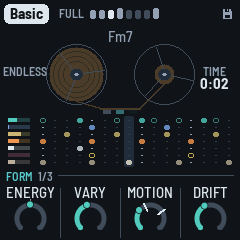
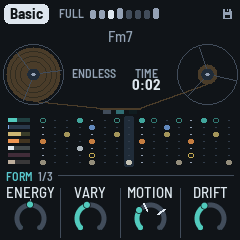
1.4.0: the hats' throw a tad more feedback (0.955 while held, the rest 0.93; the user's, zzr); the tape's reels at the screen's edges, its counter between them (the user's)

diff --git a/firmware/src/app/ui.c b/firmware/src/app/ui.c
@@ -4249,7 +4249,7 @@ static void draw_tape(uint32_t now)
 {
     static float al, ar;
     static uint32_t t_last;
-    const int32_t lx = 76, rx = 164, cy = 50;
+    const int32_t lx = 33, rx = 207, cy = 50;   /* (zzr, the user's: the reels at the edges, the counter between) */
     const uint32_t dt = t_last ? (now - t_last > 100u ? 100u : now - t_last) : 0u;
     const float bars = (float)en_bars * (1.0f / 16.0f),
                 q = en_song_ph != EN_SG_OFF && en_song_be ? fm_minf(bars / (float)en_song_be, 1.0f)
@@ -4273,7 +4273,7 @@ static void draw_tape(uint32_t now)
     cv_rect(116, 86, 8, 4, lvl);
     cv_rect(129, 86, 8, 4, ec);
     {   /* (1.4.0, the user's) the tape's counter, seen nowhere else: at the left, where the song is (INTRO, MAIN,
-         * OUTRO; ENDLESS) and the bars left of it (BARS); at the right, the time since PLAY, and in a song its whole length */
+         * OUTRO; ENDLESS) and the bars left of it (BARS); at its right, the time since PLAY, and in a song its whole length */
         static uint32_t t0, shown, last_b;
         static uint8_t was;
         const uint32_t b = en_bars / 16u;
@@ -4285,14 +4285,14 @@ static void draw_tape(uint32_t now)
         was = en_playing, last_b = b;
         if (en_playing)
             shown = (now - t0) / 1000u;
-        text_c(25, 40, &FONT_XS, song ? (en_song_ph == EN_SG_INTRO ? "INTRO" : en_song_ph == EN_SG_MAIN ? "MAIN" : "OUTRO")
+        text_c(94, 42, &FONT_XS, song ? (en_song_ph == EN_SG_INTRO ? "INTRO" : en_song_ph == EN_SG_MAIN ? "MAIN" : "OUTRO")
                                       : en_song_ph == EN_SG_END ? "END" : "ENDLESS", song ? K_ACC : K_DIM);
         if (song) {
             const uint32_t end = en_song_ph == EN_SG_INTRO ? en_song_b0 : en_song_ph == EN_SG_MAIN ? en_song_bo : en_song_be;
             const uint32_t left = end > b ? end - b : 0u;
             itoa_u(left, t);
-            text_c(25, 52, &FONT_B, t, tc);
-            text_c(25, 72, &FONT_XS, left == 1u ? "BAR" : "BARS", K_DIM);
+            text_c(94, 53, &FONT_B, t, tc);
+            text_c(94, 70, &FONT_XS, left == 1u ? "BAR" : "BARS", K_DIM);
         }
         {
             uint32_t k = 0, m = shown / 60u, sec = shown % 60u;
@@ -4301,8 +4301,8 @@ static void draw_tape(uint32_t now)
             while (c[k])
                 k++;
             c[k++] = ':', c[k++] = (char)('0' + sec / 10u), c[k++] = (char)('0' + sec % 10u), c[k] = 0;
-            text_c(214, 52, &FONT_B, c, tc);
-            text_c(214, 40, &FONT_XS, "TIME", K_DIM);
+            text_c(146, 53, &FONT_B, c, tc);
+            text_c(146, 42, &FONT_XS, "TIME", K_DIM);
             if (song && proj.par[P_TEMPO] > 0) {  /* (the song's whole length, at this tempo) */
                 const uint32_t tot = en_song_be * 240u / (uint32_t)proj.par[P_TEMPO];
                 k = 0;
@@ -4311,7 +4311,7 @@ static void draw_tape(uint32_t now)
                 while (c[k])
                     k++;
                 c[k++] = ':', c[k++] = (char)('0' + tot % 60u / 10u), c[k++] = (char)('0' + tot % 10u), c[k] = 0;
-                text_c(214, 72, &FONT_XS, c, K_DIM);
+                text_c(146, 70, &FONT_XS, c, K_DIM);
             }
         }
     }

diff --git a/firmware/src/dsp/amb.c b/firmware/src/dsp/amb.c
@@ -843,6 +843,7 @@ static float kick_lvl = 1.0f, kick_snd[2], hat_thr, png_thr, bas_thr, kick_thr; 
  * echo's feedback is pushed up to THR_FB (the repeats stack; the loop's soft clip keeps them in) and the strikes don't
  * duck the returns; thr_mx the most of the six, a block's */
 #define THR_FB 0.93f
+#define THR_HFB 0.025f                           /* (the hats' throw: the feedback a tad higher, 0.955) */
 #define THR_C 3.0f                               /* (each part's into the echo, against its own level: the chord, the */
 #define THR_P 4.0f                               /* pings, the bass, the hats (the shaker, the open hat, the rim, the */
 #define THR_B 6.0f                               /* clap), the kick) */
@@ -3168,7 +3169,8 @@ static inline void echoes(float in, float *el, float *er, float *xl, float *xr)
         } else {
             float g = fm_minf(echo_fb + 0.15f * st_throw + 0.12f * perf_echo + 0.1f * dub_up + mx_fb, fb_cap);   /* (Dub:
                                                   * past the knob) */
-            g += (fm_minf(THR_FB, fb_cap) - g) * thr_mx;   /* (a throw held: up towards THR_FB, the repeats stacking) */
+            g += (fm_minf(THR_FB + THR_HFB * hat_thr, fb_cap) - g) * thr_mx;   /* (a throw held: up towards THR_FB, the
+                                                  * repeats stacking; the hats' a little further: zzr, the user's) */
             tape_lp += tape_lpc * (f1 + fb_lean * st_throw * (f2 - f1) - tape_lp);   /* each time round: thinner, darker */
             tape_hp += tape_hpc * (tape_lp - tape_hp);
             fb = ec_fb(tape_lp - tape_hp);       /* (and more dissolved) */

diff --git a/docs/MANUAL.md b/docs/MANUAL.md
@@ -492,12 +492,12 @@ GLO held on, RESET (red); SEL held, LOCK.
     (11 kHz, right). Each band is a column of segments: teal, then brass, amber and red at the
     top. The columns jump up with the sound and fall back slowly. A white cap stays at each
     column's peak for a moment before it drops. The columns span nearly the screen's width.
-  - The **tape** draws two reels, the tape running from the left one to the right past
+  - The **tape** draws two reels at the screen's edges, the tape running from the left one to the right past
     three heads: the record head lit with the output, the play head with the echo coming back. The
     reels turn with the tempo, the smaller one faster. Through a song the tape winds from the left reel
     to the right one, so the reels show where the song is; in Endless it winds back and forth over 128
-    bars. Its counter shows what no other screen does: at the left, where the song is (INTRO, MAIN,
-    OUTRO, or ENDLESS) and the bars left of that part; at the right, the time since PLAY (minutes and
+    bars. Its counter, between the reels, shows what no other screen does: on its left, where the song is (INTRO, MAIN,
+    OUTRO, or ENDLESS) and the bars left of that part; on its right, the time since PLAY (minutes and
     seconds) and, in a song, its whole length at this tempo ("OF 7:20").
 - The levels in full and the duck are on the Arrangement page (SEL), on its meters; the other pages
   show a short meter at each lane's left (since 1.4.0; the duck meter is the Arrangement page's).
